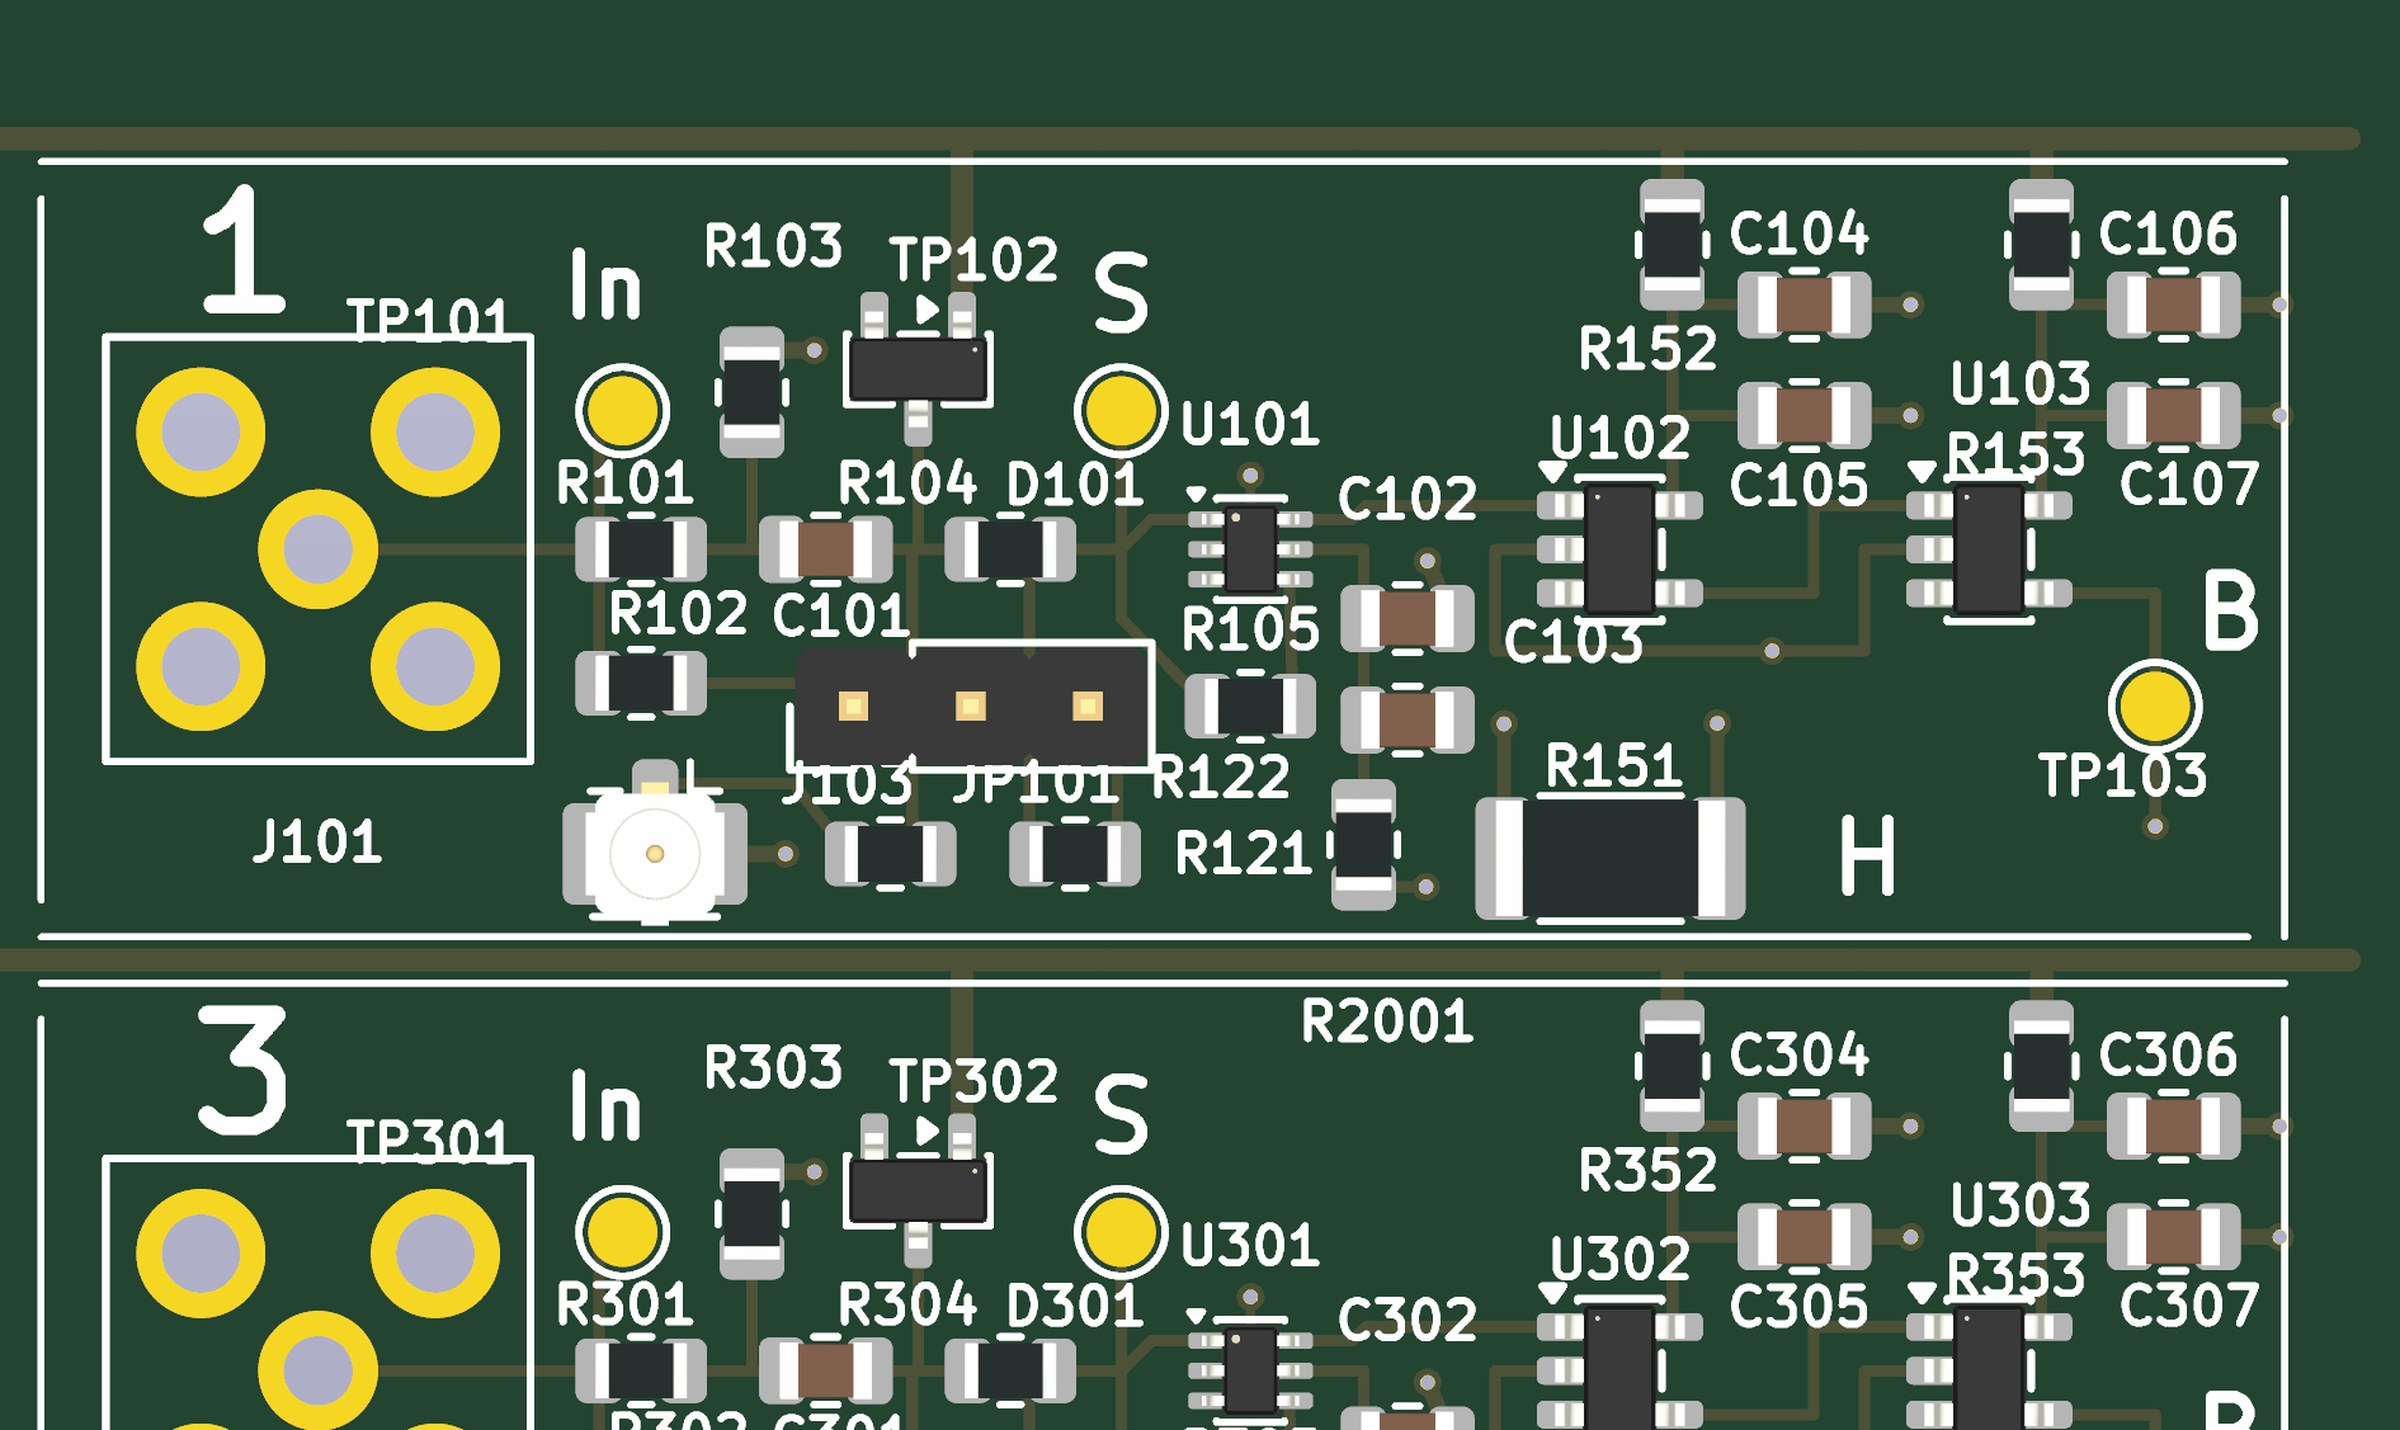
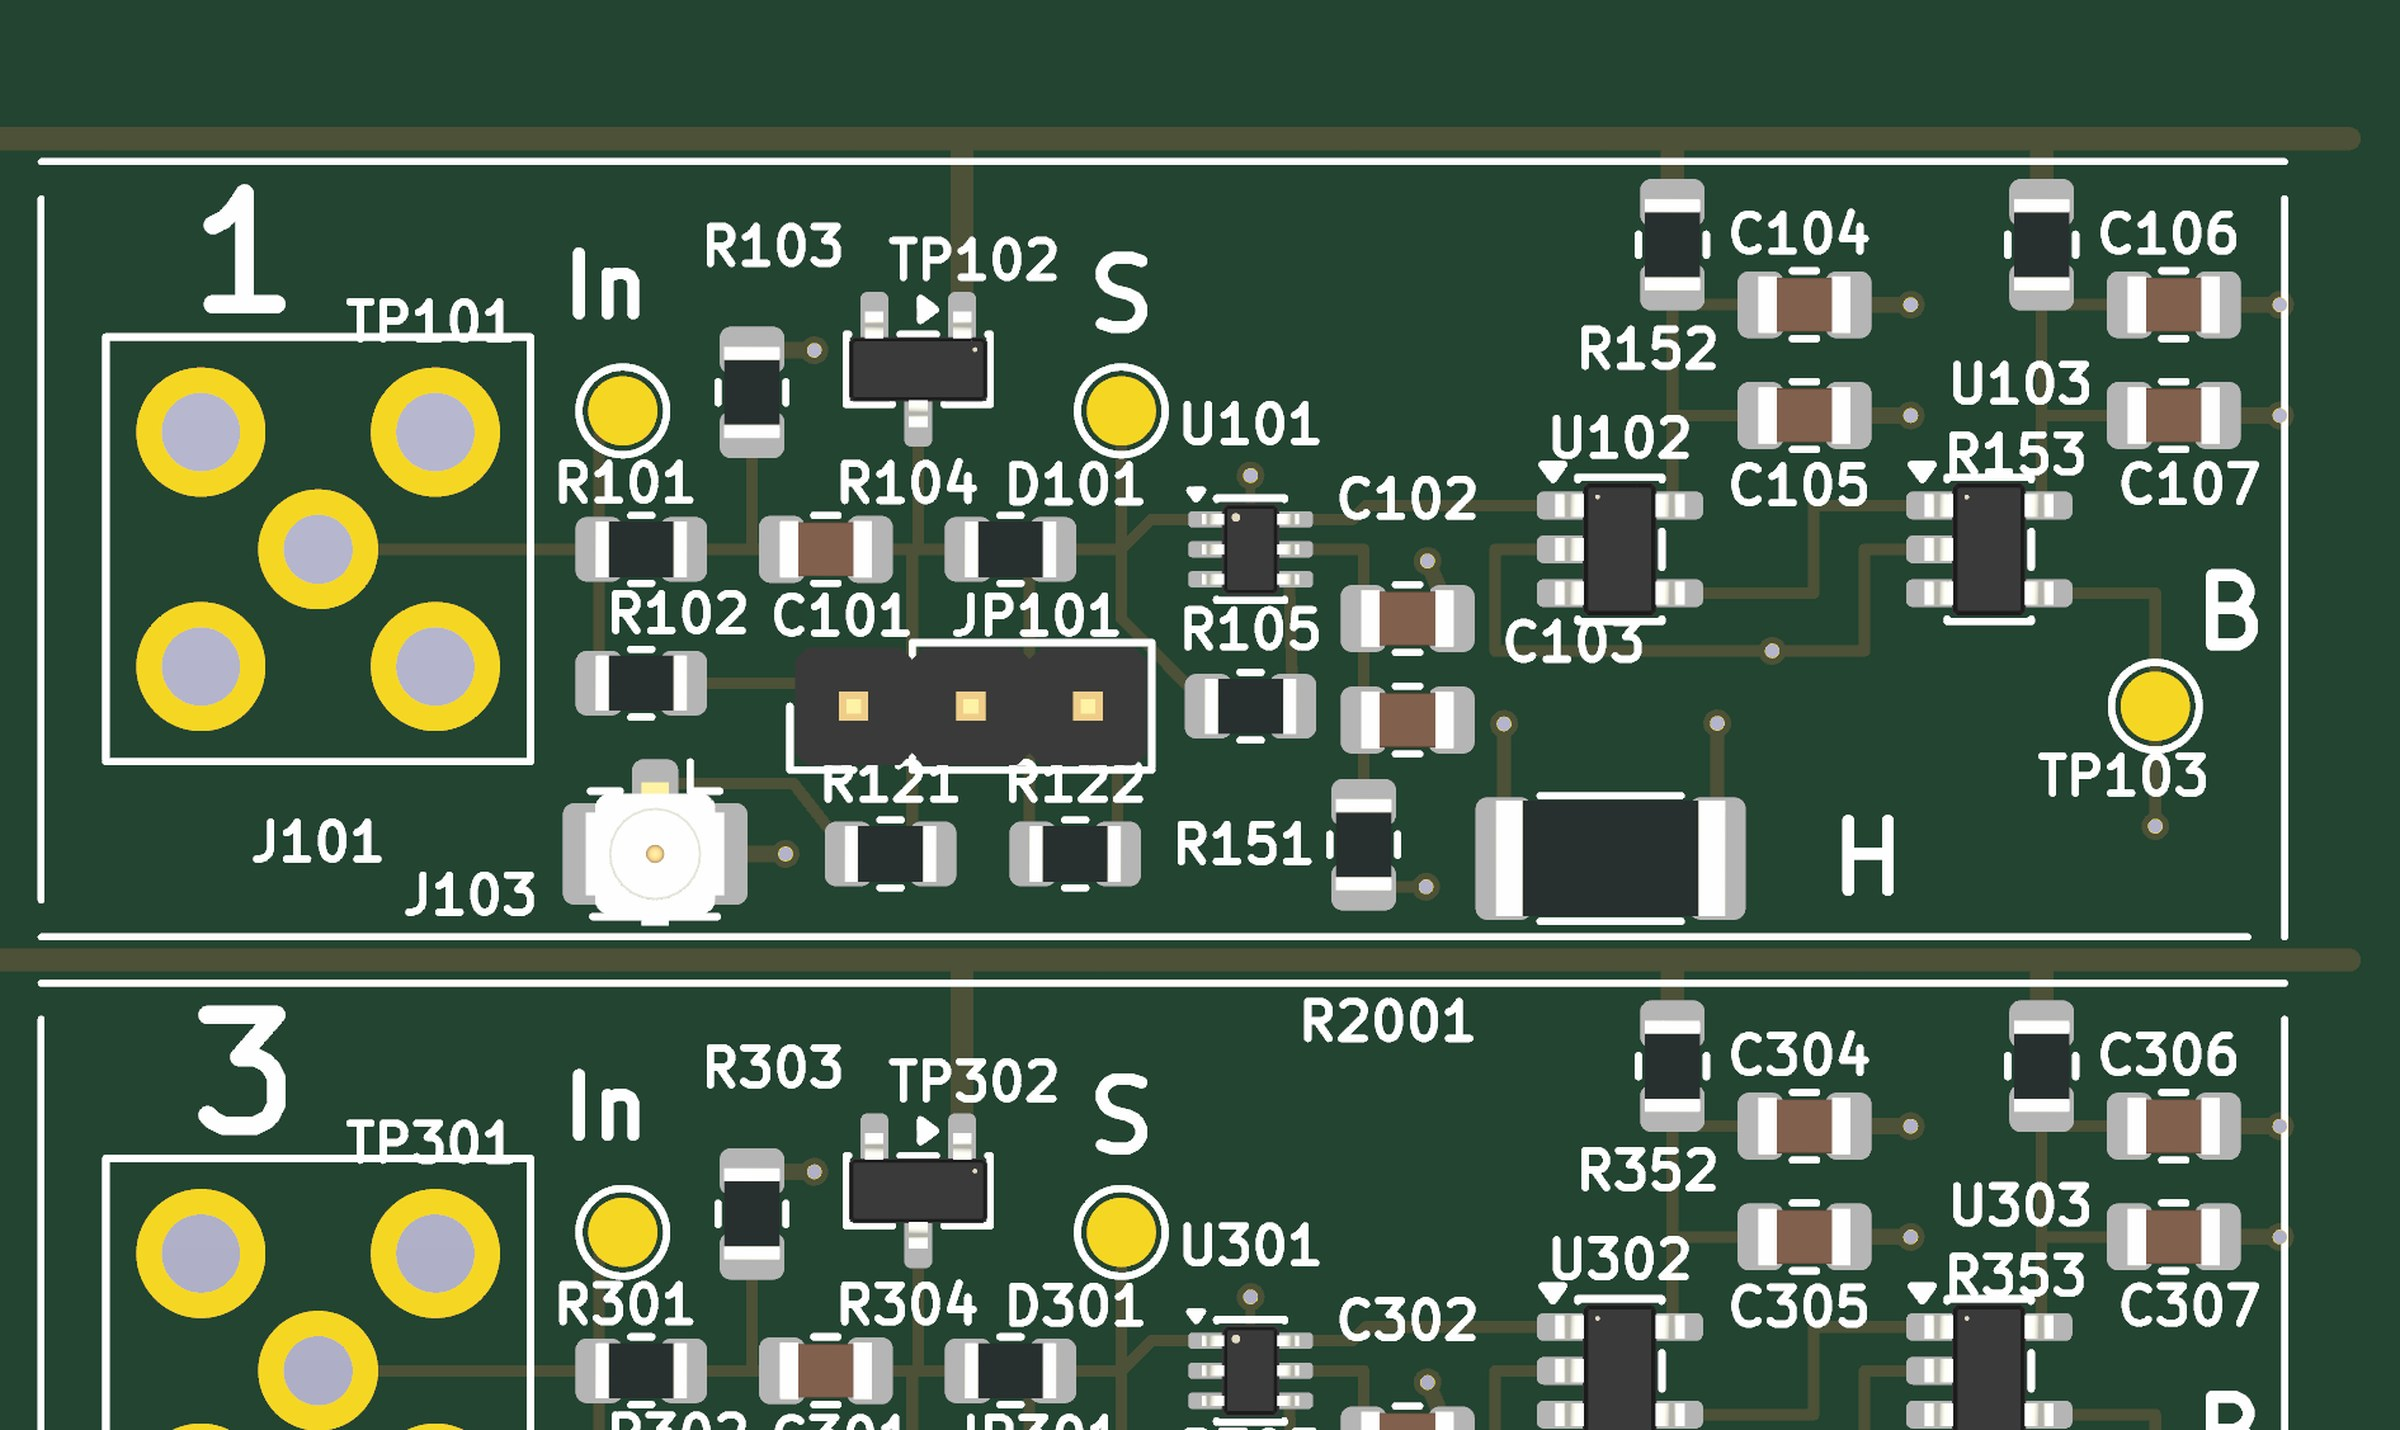
GPSDO-PYNQ-Z2: rev B tile silk -- the new parts' names beside them (offsets in the tile's frame); the tap's name to F.Fab where it has no room
JP01's name moves to the spine side of the header: rev A's spot is now R21's.
J03's name may only use its own spot (1 mm spiral), never the box-wide search that
put J803's name by R821.

Claude-Session: https://claude.ai/code/session_0174Yx6CqrDiAWHHb3wASje1

diff --git a/pcb/build_pcb.py b/pcb/build_pcb.py
@@ -3146,14 +3146,24 @@ def build():
     #   on the left -- and centred across its two pins, which in the part's
     #   own frame are (0, 0) and (0, 2.54).
     REFPREF = {}
+    # Rev B: the tap U.FL left of itself, in the corner under the SMA; its 1k
+    # and the park 100k each in the 1.65 mm strip between them and JP01; R51
+    # beside itself, above the tile's heater.  Without these the placer gave
+    # J03's name to R21's spot and R21's to R51's.
+    # JP01's own name moves to the SPINE side of the header, between it and
+    # C01: rev A's spot on the far side is now R21's.
+    TILE_REF = {"J03": (0.0, -4.0), "R21": (1.55, 0.0), "R22": (1.55, 0.0),
+                "R51": (0.0, -2.6), "JP01": (1.95, 1.27)}
     for u in sorted(byunit):
         for slot, r in byunit[u].items():
             if slot == "J01":
                 REFPREF[r] = (-6.35, 0.0)
             elif slot == "J02":
                 REFPREF[r] = (-4.8, 0.0)       # the pps box is 11.8 mm wide
-            elif slot == "JP01":
-                REFPREF[r] = (-1.65, 1.27)
+            elif slot in TILE_REF:
+                # rev B's new tile parts: the offset is in the TILE's frame,
+                # so it is the same on both sides of the board.
+                REFPREF[r] = to_local(TILE[slot][2], *TILE_REF[slot])
     for r in sorted(placed):
         if is_heater(r):
             REFPREF[r] = (5.5, 0.0)
@@ -3188,12 +3198,19 @@ def build():
         # board, and the clear board is usually straight above or below.
         b0, b1, b2, b3 = boxes[r]
         cw, ch = (b2 - b0) / 2.0 + 0.7, (b3 - b1) / 2.0 + 0.7
+        # The tap U.FL's name (rev B) is useful only BESIDE it.  On the
+        # right-hand units the unit's numeral fills that spot, and the wider
+        # searches below gave J803's name to R821's place -- so it gets its own
+        # spot or F.Fab, like any name that does not fit.
+        near_only = bool(re.match(r"^J(\d|1[0-3])03$", r))
         seeds = [p for p in (REFPREF.get(r), default_ref(d, name)) if p]
         seeds = [to_board(rrot, p[0], p[1]) for p in seeds]
         seeds += [(0.0, -ch), (0.0, ch), (-cw - w / 2.0, 0.0),
                   (cw + w / 2.0, 0.0)]
+        if near_only:
+            seeds = seeds[:1]
         for bx, by in seeds:
-            for dx, dy in spiral(0.45, 3.6):
+            for dx, dy in spiral(0.45, 1.0 if near_only else 3.6):
                 cx, cy = rx + bx + dx, ry + by + dy
                 bb = (cx - w / 2.0, cy - 0.48, cx + w / 2.0, cy + 0.48)
                 if not blocked(bb) and inside_home(r, bb):
@@ -3202,7 +3219,7 @@ def build():
             if found:
                 break
         hb = home_of(r)
-        if not found and hb:
+        if not found and hb and not near_only:
             # Round 41: every clear spot inside the part's OWN box, nearest
             # first, before giving up -- a designator in the next unit's box
             # names the wrong part, which is worse than none.

diff --git a/REVB_CHANGES.md b/REVB_CHANGES.md
@@ -57,7 +57,8 @@ rail taps) and the draft schematic as PDF.
 | yes | parts_map: 4R7 0805 (C17675, Basic), the 1x03 header | |
 | no | **+3V3_A plane: needs the layer decision** (4 layers with B.Cu as the plane, or 6). The SC-70-6 squarer's VCC pin sits between its two outputs, so a supply track and the output must cross; a plane under the tile ends that | 5 |
 | yes | **the tile's hand tracks** (all 13 units): U01's filter on the LEFT (the SC-70-6 has VCC between its outputs), its R51 to +3V3_A by a via; 1Y straight to U02; ground out between the rows; tap and park lanes through the 0.84 mm gaps in JP01's column. DRC: no clearance errors, shorts or crossings | 11, 18, 19 |
-| no | the tile's silk designators round JP01/R21/R22/R51 (placed, but not beside their parts); R1021-R1321 went to F.Fab | 1, 2 |
+| yes | the tile's silk designators: J03, R21, R22, R51 and JP01 get preferred spots in the TILE's frame (same on both sides); on unit 1 every new name is beside its part | 1, 2 |
+| no | on the right-hand units R22's name is crowded out by the heater's (R20xx) and lands by R05; J03's name goes to F.Fab on units 2-12 (even), 11, 13 (the unit numeral fills its spot), and R21's on units 10 and 12 | 1, 2 |
 | no | the helper block's hand tracks, then the router | |
 | no | INA3221; TPS3700 LEDs; the heater away from the tiles; the squarer-supply and squarer-output taps on units 1 and 4 | 6, 7, 19, 20 |
 | no | JLC stock check of the new ICs (74LVC2GU04, LMK1C1108, U.FL) at order time; the 74AUP2GU04 had 0 stock | 8 |
